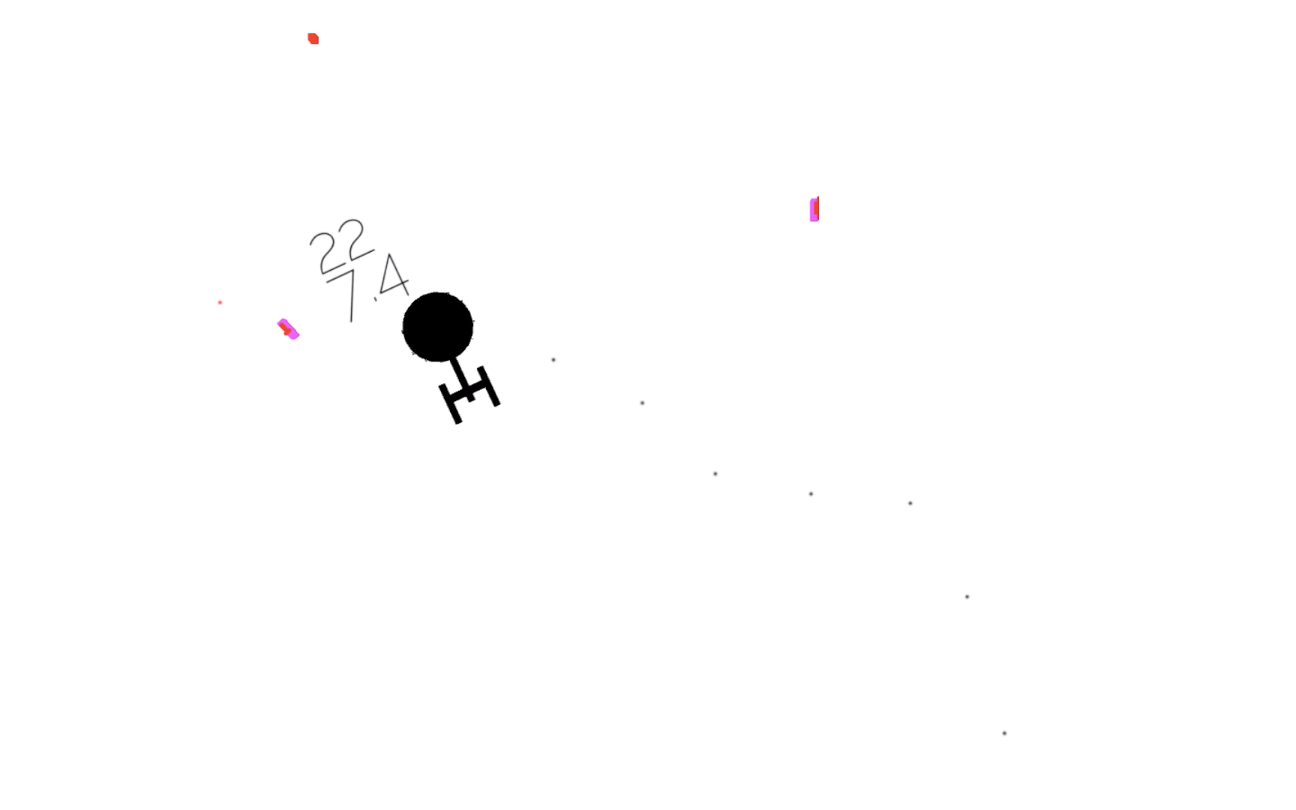
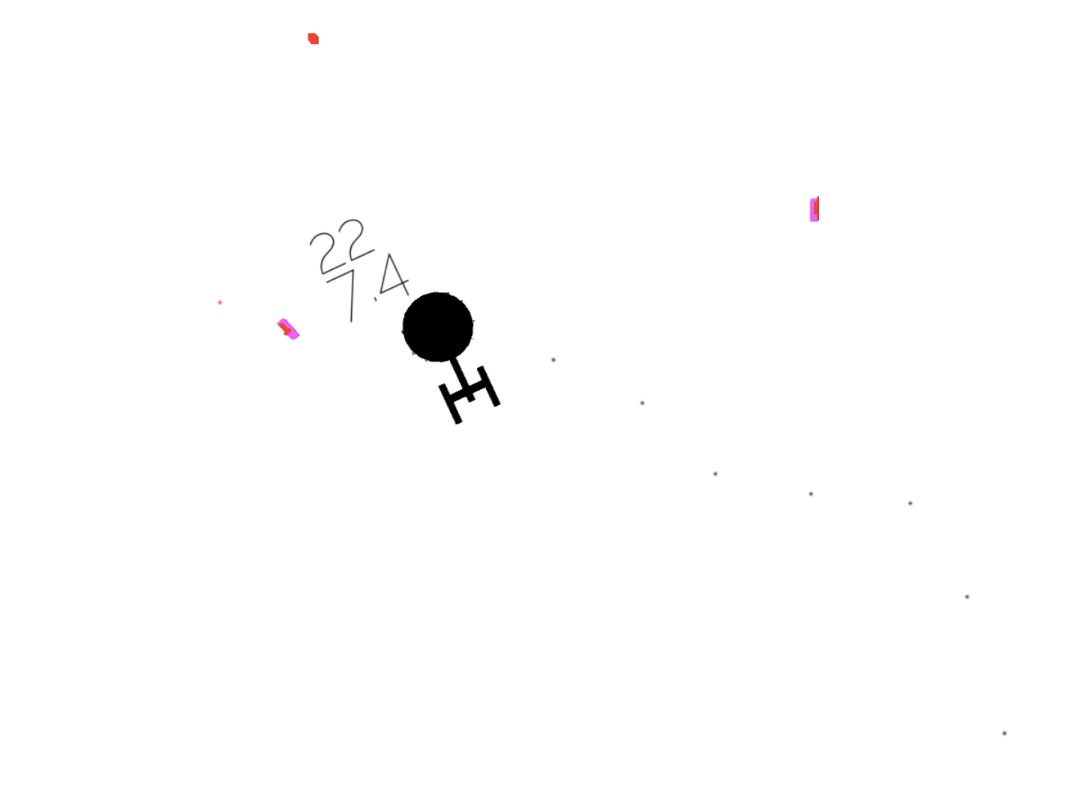
Added life invader; modified thumbnail images to match 4:3 aspect ratio

diff --git a/_projects/(8) Life Invader.md b/_projects/(8) Life Invader.md
@@ -1,0 +1,20 @@
+---
+name: Life Invader
+tools: [Python, Deep Learning, NLP]
+image: /assets/img/projects/thumbnails/life-invader-tn.png
+description: A simple ML-powered search engine.
+---
+
+##### Role: Product Designer, Machine Learning Engineer
+
+#### Related Search Recommendation
+My role in this project was to make a system that recommends related keywords with what the user searched for. For example, when the user searches for "coat," the system will recommend keywords like "single, long, short, trench."
+
+#### Word2Vec
+I used machine learning, specifically a technique called Word2Vec to develop this system.
+
+According to wikipedia,
+
+> "Word2vec models are shallow, two-layer neural networks that are trained to reconstruct linguistic contexts of words."
+
+In other words, Word2Vec represents linguistic words as numeric vectors, resulting in clustering words with similar meaning, usage, or context. By comparing the similarity between the keyword that the user searched for with other pre-vectorized words, the system selects words with the highest similarity and provides them to the user.
